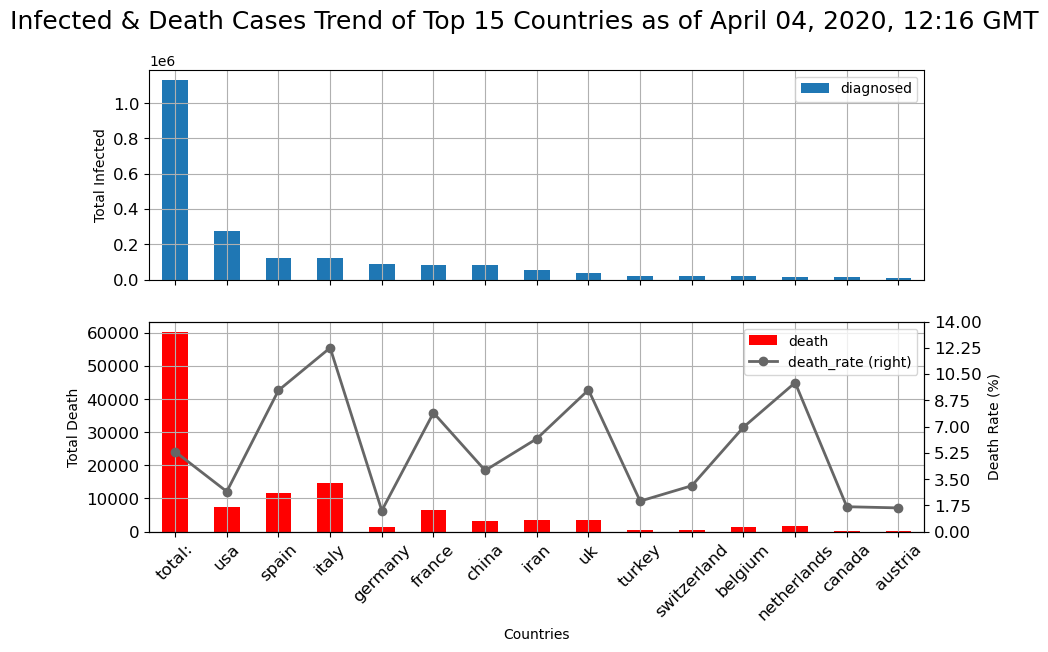
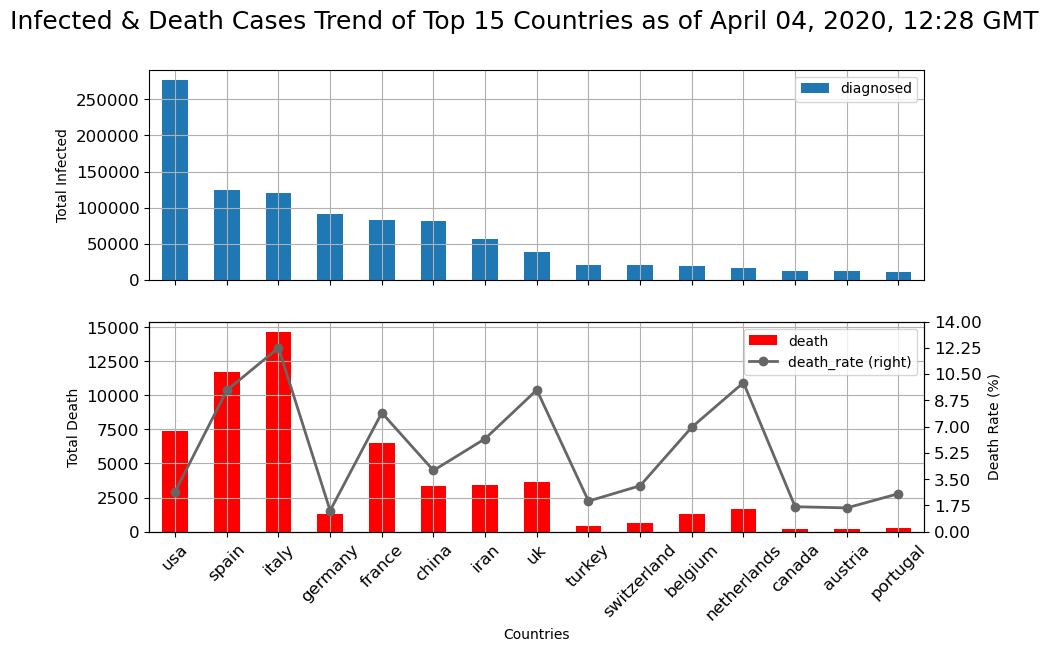
Version 2.4.1 - try #2, updated webscrape & staticfolder dir

diff --git a/WebScrape.py b/WebScrape.py
@@ -58,9 +58,9 @@ class statusScrapper():
         fig, axs = plt.subplots(nrows=2, ncols=1, figsize=(10,6), sharex=True)
         fig.suptitle(f'Infected & Death Cases Trend of Top 15 Countries as of {LastUpdatetext.split("Last updated: ")[1]}', fontsize= 18)
         pd_table.sort_values(by='diagnosed',ascending=False, inplace=True)
-        ax1 = pd_table[1:16].plot.bar(x='country', y='diagnosed', ax = axs[0], fontsize=12, grid=True)
-        ax2 = pd_table[1:16].plot.bar(x='country', y='death', ax = axs[1], fontsize=12, cmap = 'autumn', grid=True)
-        ax3 = pd_table[1:16].plot.line(x='country', y='death_rate', ax = axs[1], fontsize=12, cmap = 'Dark2_r', grid=True, secondary_y=True, marker = 'o', linewidth=2)
+        ax1 = pd_table[2:17].plot.bar(x='country', y='diagnosed', ax = axs[0], fontsize=12, grid=True)
+        ax2 = pd_table[2:17].plot.bar(x='country', y='death', ax = axs[1], fontsize=12, cmap = 'autumn', grid=True)
+        ax3 = pd_table[2:17].plot.line(x='country', y='death_rate', ax = axs[1], fontsize=12, cmap = 'Dark2_r', grid=True, secondary_y=True, marker = 'o', linewidth=2)
         ax1.set_ylabel('Total Infected')
         ax2.set_ylabel('Total Death')
         ax2.set_xlabel('Countries')
@@ -69,7 +69,8 @@ class statusScrapper():
         for tick in ax2.get_xticklabels():
             tick.set_rotation(45)
         ax3.set_xlim(-0.5,14.5)
-        ax3.set_yticks(np.linspace(ax3.get_yticks()[0], ax3.get_yticks()[-1], len(ax2.get_yticks())+1))
+        ax3.set_yticks(np.linspace(ax3.get_yticks()[0], round(ax3.get_yticks()[-1]), 6))
+        ax2.set_yticks(np.linspace(ax2.get_yticks()[0], round(ax2.get_yticks()[-1],-3), 6))
         plt.savefig('static/plots/worldwide.png',bbox_inches = "tight")
 
 

diff --git a/chatbot_app/views.py b/chatbot_app/views.py
@@ -15,15 +15,15 @@ from math import radians, sin, cos, acos
 import os
 from df_response_lib import *
 import random
-#key_ = os.environ['key_']
-#gmaps = googlemaps.Client(key = key_)
+key_ = os.environ['key_']
+gmaps = googlemaps.Client(key = key_)
 
 
 # Create your views here.
 
 def index(request):
     image_list=[]
-    for root, dirs, files in os.walk(settings.STATICFILES_DIRS):
+    for root, dirs, files in os.walk(settings.STATIC_ROOT):
         for file in files:
             if file.endswith(".png"):
                 image_list.append(file)
